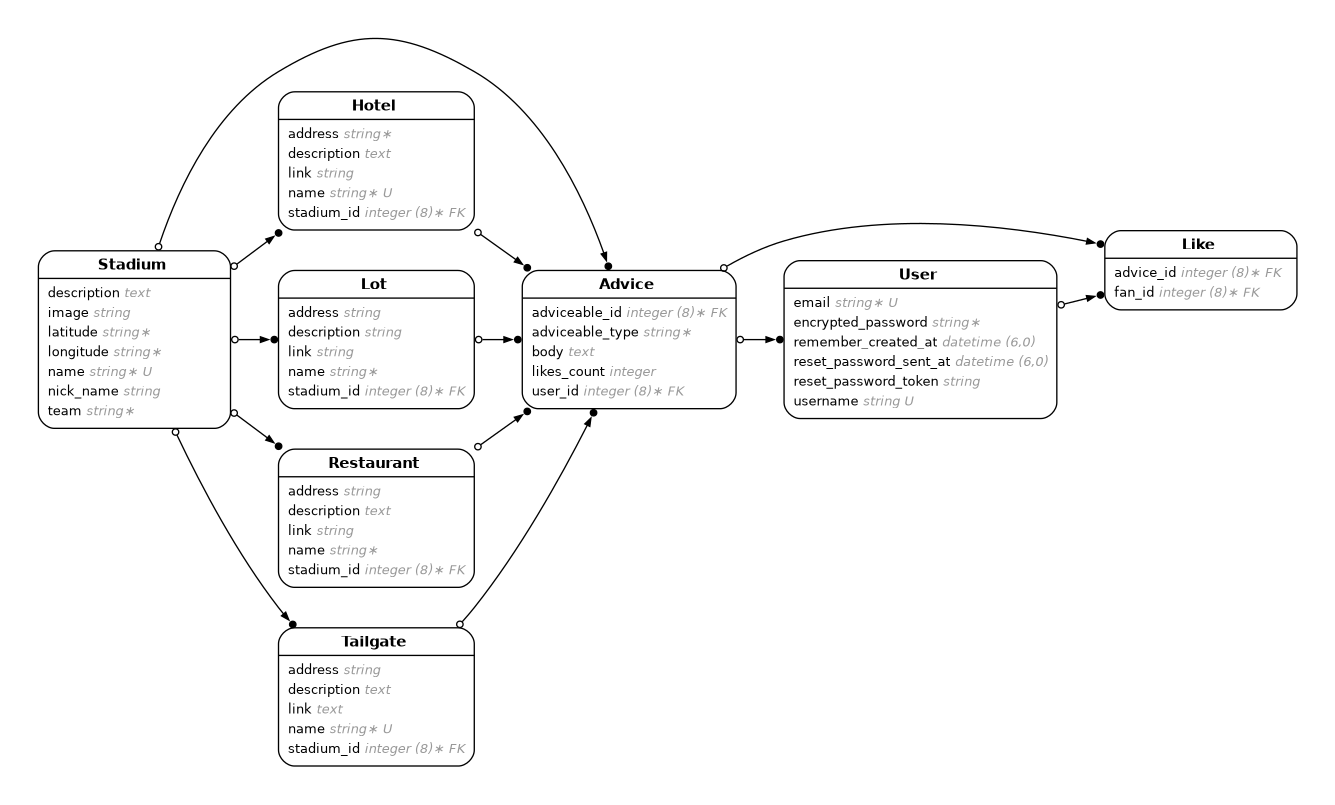
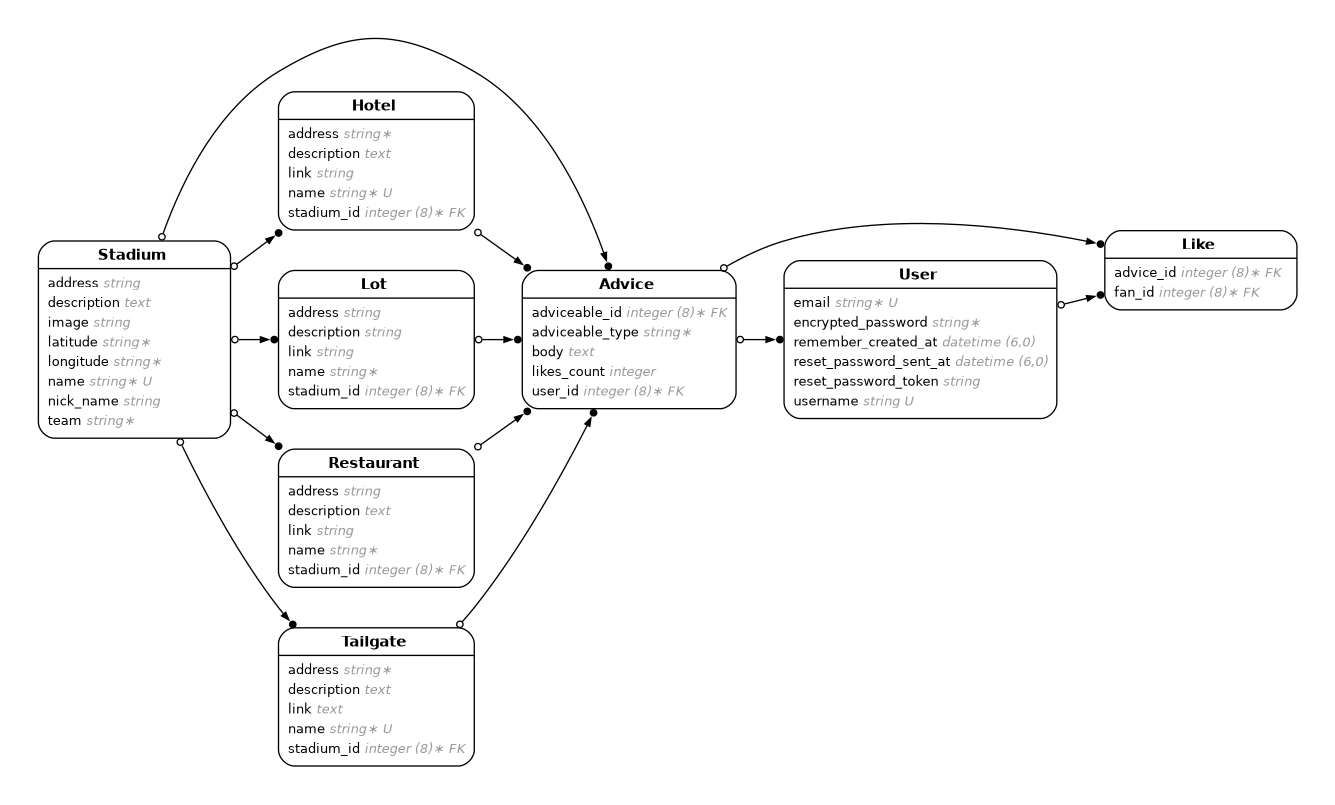
adds address to stadiums

Changed region(s): [[0.0307, 0.2795, 0.1843, 0.559]]

diff --git a/db/seeds.rb b/db/seeds.rb
@@ -1,16 +1,16 @@
 ### Stadiums ###
 Stadium.create(latitude: '41.862366', longitude: '-87.617256', name: 'Soldier Field', team: 'Chicago Bears',
-               image: 'soldier.jpg', description: "The Chicago Bears are a professional American football team based in Chicago, Illinois. Established in 1920, they are one of the oldest franchises in the National Football League. Known for their rich history, iconic navy blue and orange uniforms, and a strong defensive legacy, the Bears have won nine NFL Championships, including one Super Bowl. They play their home games at Soldier Field, located on the city's lakefront. The team is a beloved institution in Chicago, with a passionate and loyal fan base.", nick_name: 'bears')
+               image: 'soldier.jpg', description: "The Chicago Bears are a professional American football team based in Chicago, Illinois. Established in 1920, they are one of the oldest franchises in the National Football League. Known for their rich history, iconic navy blue and orange uniforms, and a strong defensive legacy, the Bears have won nine NFL Championships, including one Super Bowl. They play their home games at Soldier Field, located on the city's lakefront. The team is a beloved institution in Chicago, with a passionate and loyal fan base.", nick_name: 'bears', address: "1410 Special Olympics Dr, Chicago, IL 60605")
 Stadium.create(latitude: '44.501308', longitude: '-88.062317', name: 'Lambeau Field', team: 'Green Bay Packers',
-               image: 'lambeau.jpg', description: 'The Green Bay Packers are a professional American football team based in Green Bay, Wisconsin. Founded in 1919, they are the third-oldest franchise in the National Football League and the only non-profit, community-owned major league professional sports team in the United States. Known for their iconic green and gold uniforms, the Packers have won 13 NFL Championships, including four Super Bowls. They play their home games at Lambeau Field, renowned for its storied history and passionate fan base.', nick_name: 'packers')
+               image: 'lambeau.jpg', description: 'The Green Bay Packers are a professional American football team based in Green Bay, Wisconsin. Founded in 1919, they are the third-oldest franchise in the National Football League and the only non-profit, community-owned major league professional sports team in the United States. Known for their iconic green and gold uniforms, the Packers have won 13 NFL Championships, including four Super Bowls. They play their home games at Lambeau Field, renowned for its storied history and passionate fan base.', nick_name: 'packers', address: "1265 Lombardi Ave, Green Bay, WI 54304")
 Stadium.create(latitude: '42.340115', longitude: '-83.046341', name: 'Ford Field', team: 'Detroit Lions',
-               image: 'ford.jpg', description: 'The Detroit Lions are a professional American football team based in Detroit, Michigan. Established in 1930, they are a member of the National Football League. Known for their Honolulu blue and silver uniforms, the Lions have won four NFL Championships, all prior to the Super Bowl era. The team plays its home games at Ford Field in downtown Detroit. The Lions have a dedicated and resilient fan base, and their annual Thanksgiving Day game is a beloved NFL tradition.', nick_name: 'lions')
+               image: 'ford.jpg', description: 'The Detroit Lions are a professional American football team based in Detroit, Michigan. Established in 1930, they are a member of the National Football League. Known for their Honolulu blue and silver uniforms, the Lions have won four NFL Championships, all prior to the Super Bowl era. The team plays its home games at Ford Field in downtown Detroit. The Lions have a dedicated and resilient fan base, and their annual Thanksgiving Day game is a beloved NFL tradition.', nick_name: 'lions', address: "2000 Brush St, Detroit, MI 48226")
 Stadium.create(latitude: '44.973774', longitude: '-93.258736', name: 'US Bank Stadium', team: 'Minnesota Vikings',
-               image: 'usbank.jpg', description: 'The Minnesota Vikings are a professional American football team based in Minneapolis, Minnesota. Founded in 1960, they are a member of the National Football League. Known for their distinctive purple and gold uniforms and their Viking mascot, the team has a storied history and a passionate fan base. The Vikings have won numerous division titles and appeared in four Super Bowls. They play their home games at U.S. Bank Stadium, a state-of-the-art facility in downtown Minneapolis.', nick_name: 'vikings')
+               image: 'usbank.jpg', description: 'The Minnesota Vikings are a professional American football team based in Minneapolis, Minnesota. Founded in 1960, they are a member of the National Football League. Known for their distinctive purple and gold uniforms and their Viking mascot, the team has a storied history and a passionate fan base. The Vikings have won numerous division titles and appeared in four Super Bowls. They play their home games at U.S. Bank Stadium, a state-of-the-art facility in downtown Minneapolis.', nick_name: 'vikings', address: "401 Chicago Ave, Minneapolis, MN 55415")
 Stadium.create(latitude: '39.0490', longitude: '-94.4840', name: 'Arrowhead Stadium', team: 'Kansas City Chiefs',
-               image: 'arrowhead.jpg', description: 'The Kansas City Chiefs are a professional American football team based in Kansas City, Missouri. Founded in 1960 as a charter member of the American Football League (AFL), the team joined the National Football League (NFL) in 1970 after the AFL-NFL merger. Known for their red and gold uniforms, passionate fan base, and iconic Arrowhead Stadium, the Chiefs have won multiple division titles and three Super Bowls, including the most recent in 2023. The team is renowned for its explosive offense and the leadership of its star quarterback, making them one of the  most formidable teams in recent years.', nick_name: 'chiefs')
+               image: 'arrowhead.jpg', description: 'The Kansas City Chiefs are a professional American football team based in Kansas City, Missouri. Founded in 1960 as a charter member of the American Football League (AFL), the team joined the National Football League (NFL) in 1970 after the AFL-NFL merger. Known for their red and gold uniforms, passionate fan base, and iconic Arrowhead Stadium, the Chiefs have won multiple division titles and three Super Bowls, including the most recent in 2023. The team is renowned for its explosive offense and the leadership of its star quarterback, making them one of the  most formidable teams in recent years.', nick_name: 'chiefs', address: "1 Arrowhead Dr, Kansas City, MO 64129")
 Stadium.create(latitude: '36.0909', longitude: '-115.1833', name: 'Allegiant Stadium', team: 'Las Vegas Raiders',
-               image: 'allegiant.jpg', description: 'The Las Vegas Raiders are a professional American football team based in Las Vegas, Nevada. Originally founded in 1960 as the Oakland Raiders, the team has undergone several relocations, moving to Los Angeles and back to Oakland before settling in Las Vegas in 2020. Known for their iconic silver and black uniforms, the Raiders have a storied history with three Super Bowl championships and a fiercely loyal fan base. They play their home games at Allegiant Stadium, a state-of-the-art facility just off the Las Vegas Strip. The Raiders are celebrated for their rebellious image and intense rivalries.', nick_name: 'raiders')
+               image: 'allegiant.jpg', description: 'The Las Vegas Raiders are a professional American football team based in Las Vegas, Nevada. Originally founded in 1960 as the Oakland Raiders, the team has undergone several relocations, moving to Los Angeles and back to Oakland before settling in Las Vegas in 2020. Known for their iconic silver and black uniforms, the Raiders have a storied history with three Super Bowl championships and a fiercely loyal fan base. They play their home games at Allegiant Stadium, a state-of-the-art facility just off the Las Vegas Strip. The Raiders are celebrated for their rebellious image and intense rivalries.', nick_name: 'raiders', address: "3333 Al Davis Way, Las Vegas, NV 89118")
 
 ### Users ###
 User.create(email: 'sample@example.com', password: 'password', username: 'pinballfan1')

diff --git a/db/schema.rb b/db/schema.rb
@@ -10,7 +10,7 @@
 #
 # It's strongly recommended that you check this file into your version control system.
 
-ActiveRecord::Schema[7.1].define(version: 2024_10_31_202823) do
+ActiveRecord::Schema[7.1].define(version: 2024_11_01_185523) do
   # These are extensions that must be enabled in order to support this database
   enable_extension "plpgsql"
 
@@ -78,6 +78,7 @@ ActiveRecord::Schema[7.1].define(version: 2024_10_31_202823) do
     t.string "image"
     t.text "description"
     t.string "nick_name"
+    t.string "address"
   end
 
   create_table "tailgates", force: :cascade do |t|

diff --git a/db/migrate/20241101185523_add_address_to_stadiums.rb b/db/migrate/20241101185523_add_address_to_stadiums.rb
@@ -1,0 +1,5 @@
+class AddAddressToStadiums < ActiveRecord::Migration[7.1]
+  def change
+    add_column :stadiums, :address, :string
+  end
+end
